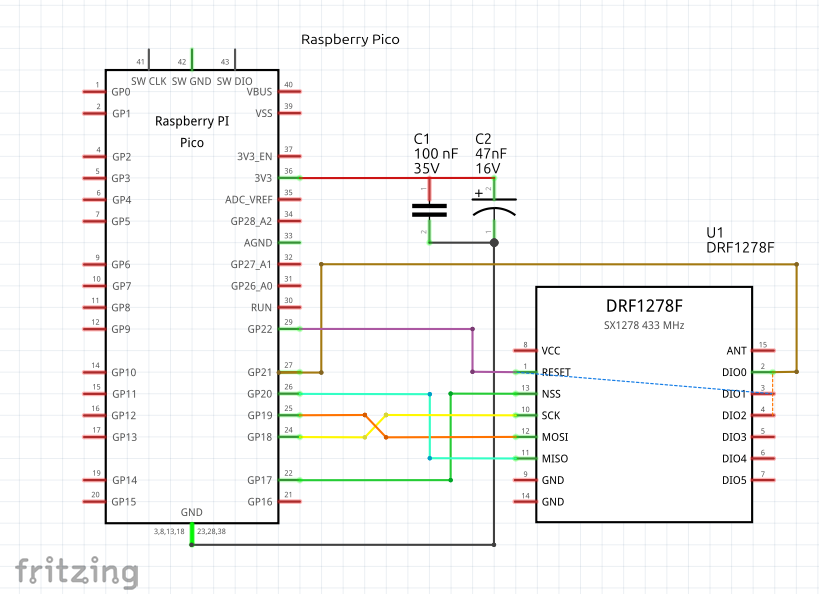
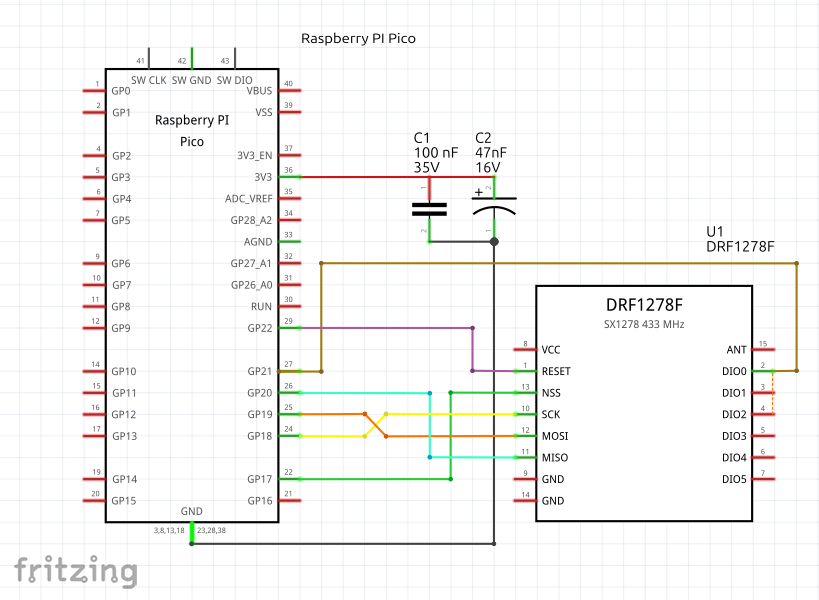
Update the transmitter schematic and show schematics only

diff --git a/README.md b/README.md
@@ -13,7 +13,6 @@ honeypot node, and a Raspberry Pi 4 ground station with a web portal.
 
 | Uplink transmitter | Honeypot node | CTI ground station |
 |---|---|---|
-| ![Uplink transmitter](docs/images/uplink_transmitter_photo.jpg) | ![Honeypot node](docs/images/honeypot_node_photo.jpg) | ![Ground station](docs/images/ground_station_photo.jpg) |
 | ![Uplink transmitter schematic](docs/images/uplink_transmitter_schematic.png) | ![Honeypot node schematic](docs/images/honeypot_node_schematic.png) | ![Ground station schematic](docs/images/ground_station_schematic.png) |
 | Raspberry Pi Pico + DRF1278F | ESP32 + Ra-01 + INA219 | Raspberry Pi 4 + Ra-01 |
 

diff --git a/docs/hardware.md b/docs/hardware.md
@@ -153,9 +153,3 @@ Fritzing part for the Dorji DRF1278F, which is not in the standard library.
 Import `parts/DRF1278F_Dorji_SX1278.fzpz` first (File → Open), then open the
 sketches. The Ra-01, ESP32 DevKit, INA219 and Raspberry Pi Pico parts are
 embedded in the sketches; they come from community part libraries.
-
-## Photos
-
-| Uplink transmitter | Honeypot node | Ground station |
-|---|---|---|
-| ![Uplink transmitter](images/uplink_transmitter_photo.jpg) | ![Honeypot node](images/honeypot_node_photo.jpg) | ![Ground station](images/ground_station_photo.jpg) |
